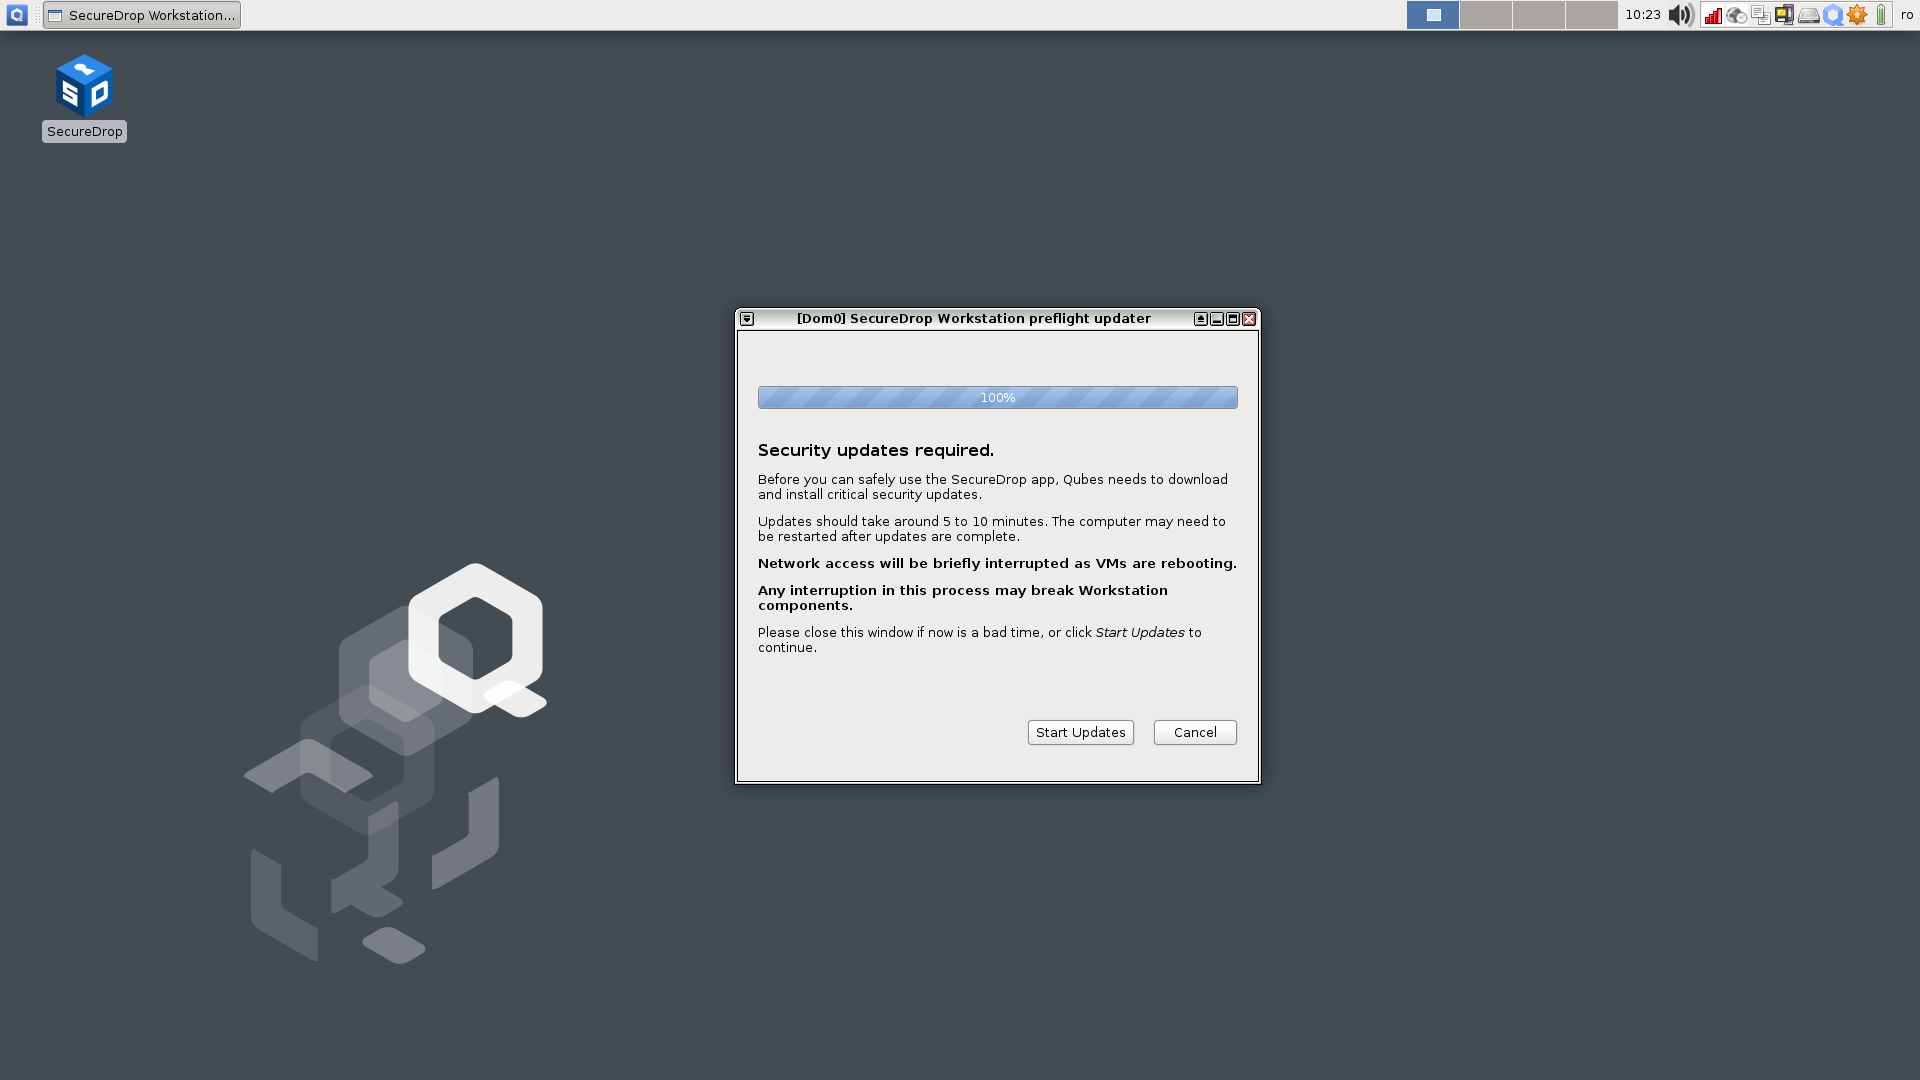
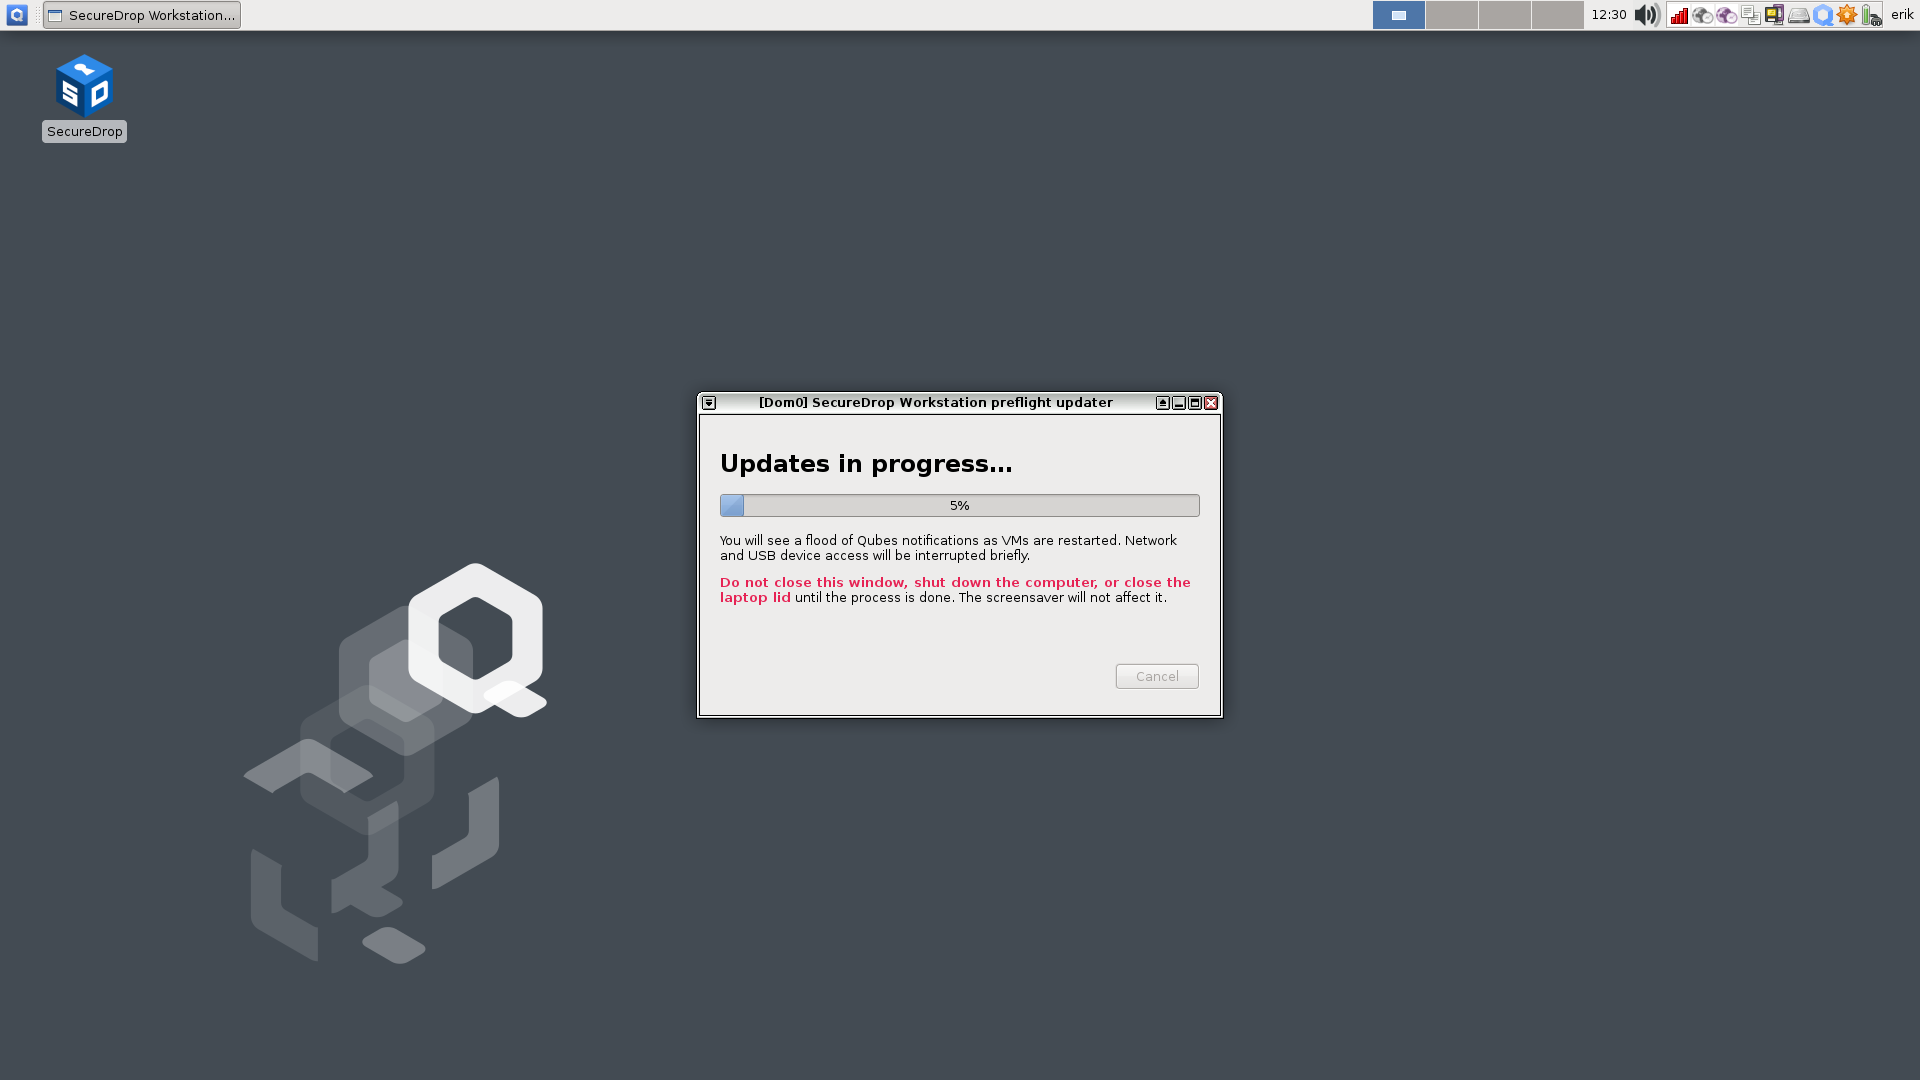
Update docs consistent with new preflight updater UI
Resolves #48

Changed region(s): [[0.3438, 0.275, 0.6562, 0.7333], [0.8125, 0.0, 1.0, 0.0306], [0.7188, 0.0, 0.7812, 0.0306]]

diff --git a/docs/journalist/starting_client.rst b/docs/journalist/starting_client.rst
@@ -12,25 +12,26 @@ you have previously exited the application, you can double-click on the
 Performing updates
 ------------------
 
-When you launch the application, it will first check for security
-updates. This typically takes a few minutes.
+Unless the system has just been updated, SecureDrop Workstation will now prompt
+you to automatically download and apply any available security updates:
 
-|screenshot_check_updates|
+|screenshot_update_prompt|
 
-If updates are found, you will be asked to apply them before launching the
-SecureDrop Client. For security reasons, you will not be able to launch the
-SecureDrop Client unless updates have been applied. If you prefer to shut down
-the machine or do other work in Qubes OS instead, you can cancel the update.
+For security reasons, you will not be able to launch the SecureDrop Client until
+updates have been applied. This typically takes between 10 and 30 minutes.
+
+Click "Start updates" if you are ready to start the process. (If you prefer to
+shut down the machine or do other work in Qubes OS instead, click "Cancel".)
+You will see a progress indicator until updates are completed:
 
 |screenshot_apply_updates|
 
-.. important:: When you click "Apply Updates," allow the update
-   process to complete fully, without closing or interrupting it, or you risk
-   breaking important system components. The update process can take from just
-   a few minutes to 30 minutes or longer, depending on your network connection
-   and how many updates are available.
+.. important:: Allow the update process to complete fully, without closing or
+   interrupting it, or you risk breaking important system components.
 
-Once the update process has been completed, the SecureDrop Client will launch.
+At the end of this process, SecureDrop Workstation may prompt you to reboot
+if core system components were updated. Once all steps in the update process have
+been completed, the SecureDrop Client will launch automatically.
 
 Signing in
 ----------
@@ -77,7 +78,7 @@ offline mode and can be accessed even when you are not logged in.
    use.
 
 .. |screenshot_desktop-shortcut| image:: ../images/screenshot_desktop-shortcut.png
-.. |screenshot_check_updates| image:: ../images/screenshot_check_updates.png
+.. |screenshot_update_prompt| image:: ../images/screenshot_update_prompt.png
 .. |screenshot_apply_updates| image:: ../images/screenshot_apply_updates.png
 .. |screenshot_sd-app_login| image:: ../images/screenshot_sd-app_login.png
 .. |screenshot_gpg_access| image:: ../images/screenshot_gpg_access.png
